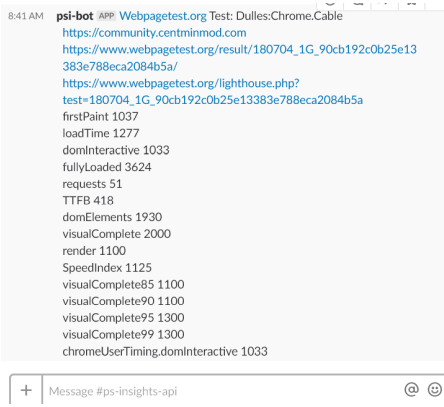
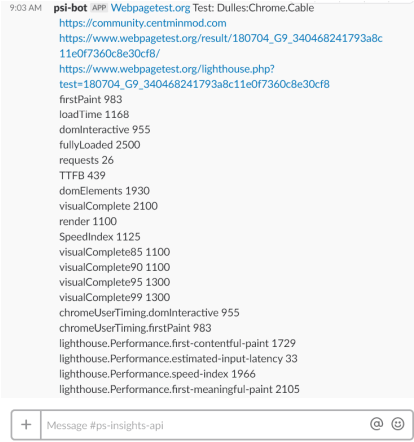
WPT lighthouse metric parsing

Changed region(s): [[0.0, 0.0, 1.0, 1.0]]

diff --git a/readme.md b/readme.md
@@ -1096,15 +1096,12 @@ cd /root/tools/google-insights-api-tools
 --------------------------------------------------------------------------------
 Dulles:Chrome.Cable WPT Results
 --------------------------------------------------------------------------------
-Test ID: 180704_1G_90cb192c0b25e13383e788eca2084b5a
-https://www.webpagetest.org/result/180704_1G_90cb192c0b25e13383e788eca2084b5a/
-https://www.webpagetest.org/lighthouse.php?test=180704_1G_90cb192c0b25e13383e788eca2084b5a
-/home/wptresults/wpt-dulles.chrome.cable.040718-224032.log
-Test Started 29 seconds ago
-Test Started 29 seconds ago (100)
-waiting on results...
-Test Started 44 seconds ago
-Test Started 44 seconds ago (100)
+Test ID: 180704_G9_340468241793a8c11e0f7360c8e30cf8
+https://www.webpagetest.org/result/180704_G9_340468241793a8c11e0f7360c8e30cf8/
+https://www.webpagetest.org/lighthouse.php?test=180704_G9_340468241793a8c11e0f7360c8e30cf8
+/home/wptresults/wpt-dulles.chrome.cable.040718-230307.log
+Test Started 28 seconds ago
+Test Started 28 seconds ago (100)
 waiting on results...
 Test Complete
 Test Complete (200)
@@ -1112,21 +1109,26 @@ waiting on results...
 Test Complete
 Test Complete (200)
 ----
-firstPaint 1037 
-loadTime 1277 
-domInteractive 1033 
-fullyLoaded 3624 
-requests 51 
-TTFB 418 
+firstPaint 983 
+loadTime 1168 
+domInteractive 955 
+fullyLoaded 2500 
+requests 26 
+TTFB 439 
 domElements 1930 
-visualComplete 2000 
+visualComplete 2100 
 render 1100 
 SpeedIndex 1125 
 visualComplete85 1100 
 visualComplete90 1100 
 visualComplete95 1300 
 visualComplete99 1300 
-chromeUserTiming.domInteractive 1033 
+chromeUserTiming.domInteractive 955 
+chromeUserTiming.firstPaint 983 
+lighthouse.Performance.first-contentful-paint 1729 
+lighthouse.Performance.estimated-input-latency 33 
+lighthouse.Performance.speed-index 1966 
+lighthouse.Performance.first-meaningful-paint 2105 
 ok----
 --------------------------------------------------------------------------------
 ```
